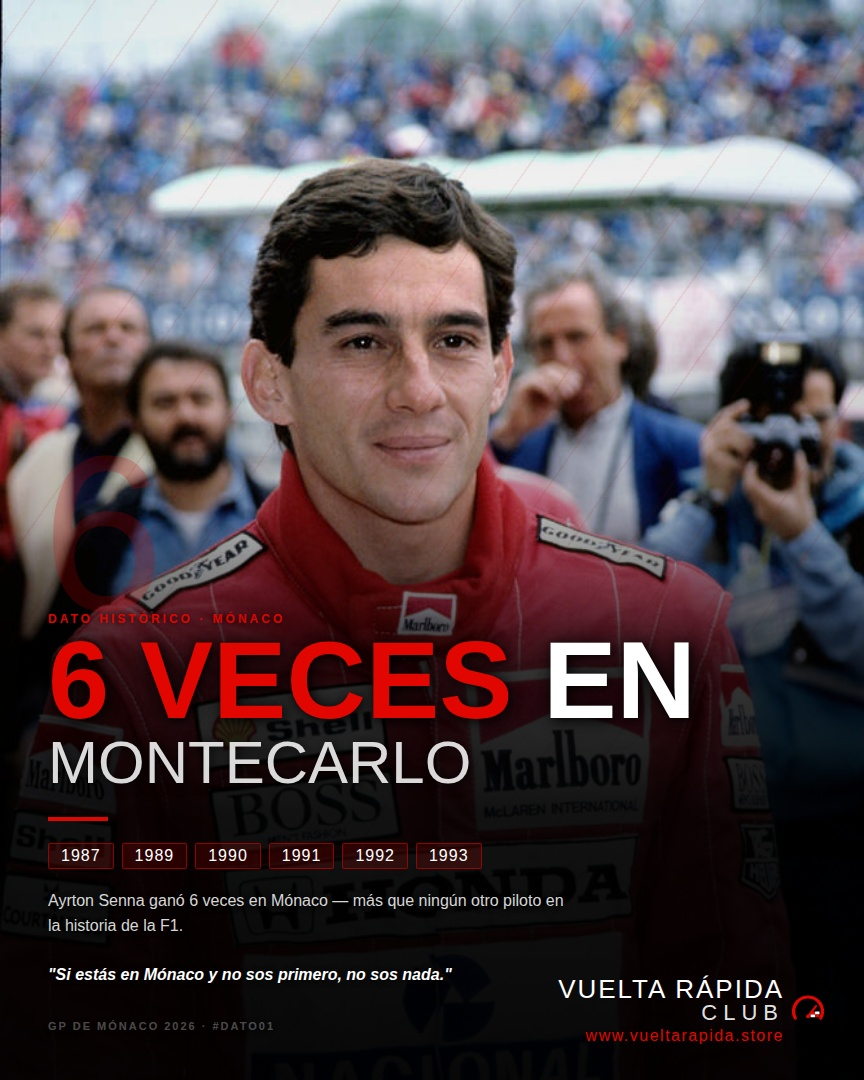
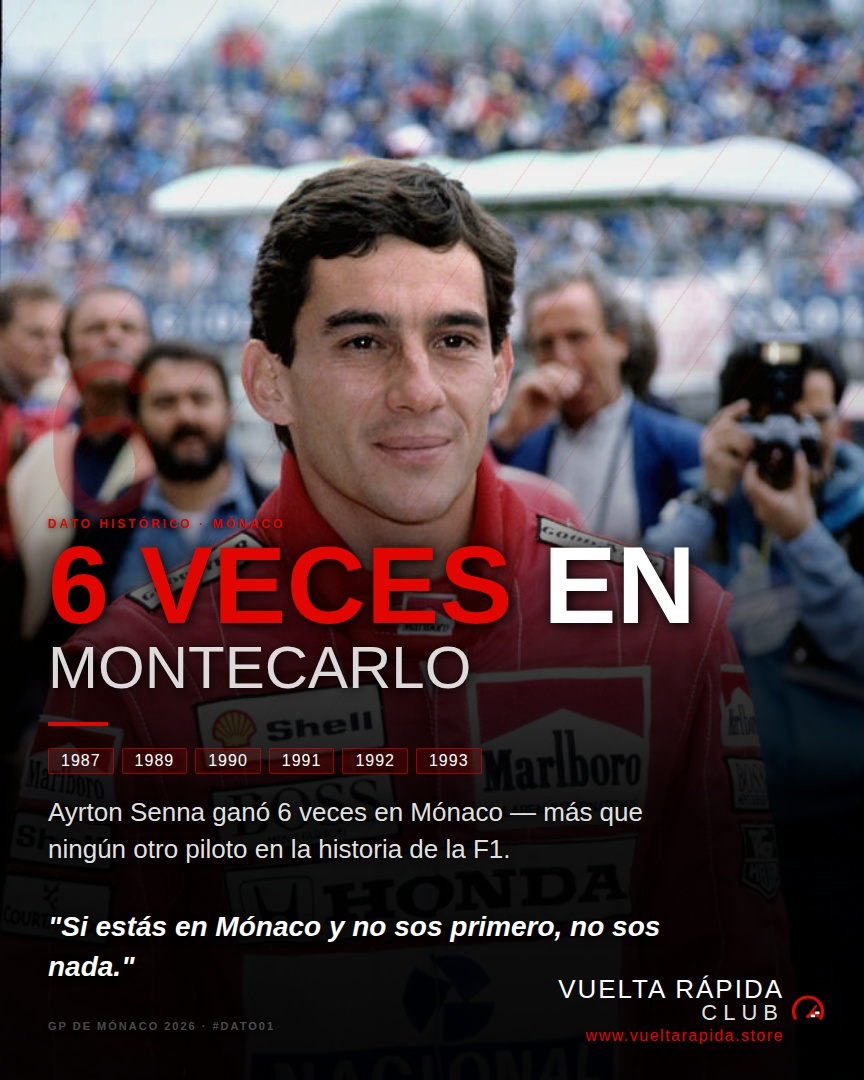
Texto cuerpo y frase Senna mucho más grandes para lectura en celular
https://claude.ai/code/session_014X65KHBDaKyUAH1A68HfVZ

Changed region(s): [[0.0312, 0.3361, 0.7812, 0.9167], [0.625, 0.4889, 0.8125, 0.6722], [0.625, 0.7333, 0.75, 0.7639]]

diff --git a/post-senna-monaco.html b/post-senna-monaco.html
@@ -151,17 +151,18 @@
 
     .body-text {
       font-family: 'Barlow', sans-serif;
-      font-size: 16px;
-      color: rgba(255,255,255,0.85);
-      line-height: 1.55;
-      max-width: 520px;
+      font-size: 26px;
+      color: rgba(255,255,255,0.90);
+      line-height: 1.45;
+      max-width: 620px;
       margin-bottom: 32px;
-      text-shadow: 0 1px 6px rgba(0,0,0,0.8);
+      text-shadow: 0 2px 8px rgba(0,0,0,0.9);
     }
     .body-text em {
       color: #fff;
       font-style: italic;
-      font-weight: 600;
+      font-weight: 700;
+      font-size: 28px;
     }
 
     /* Logo abajo a la derecha — siempre */
